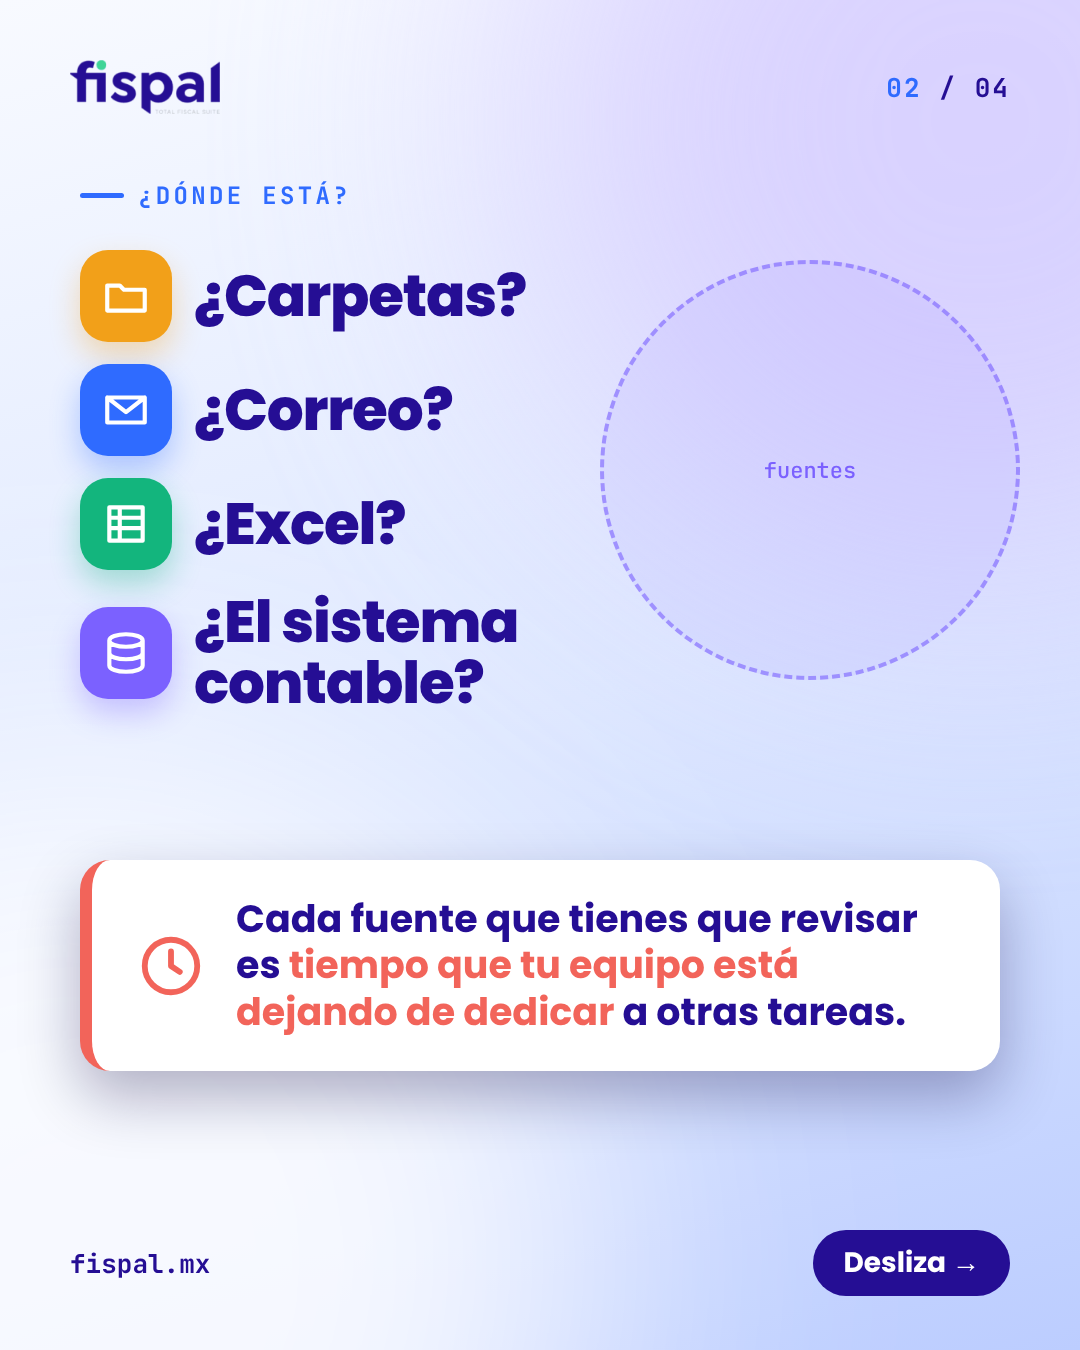
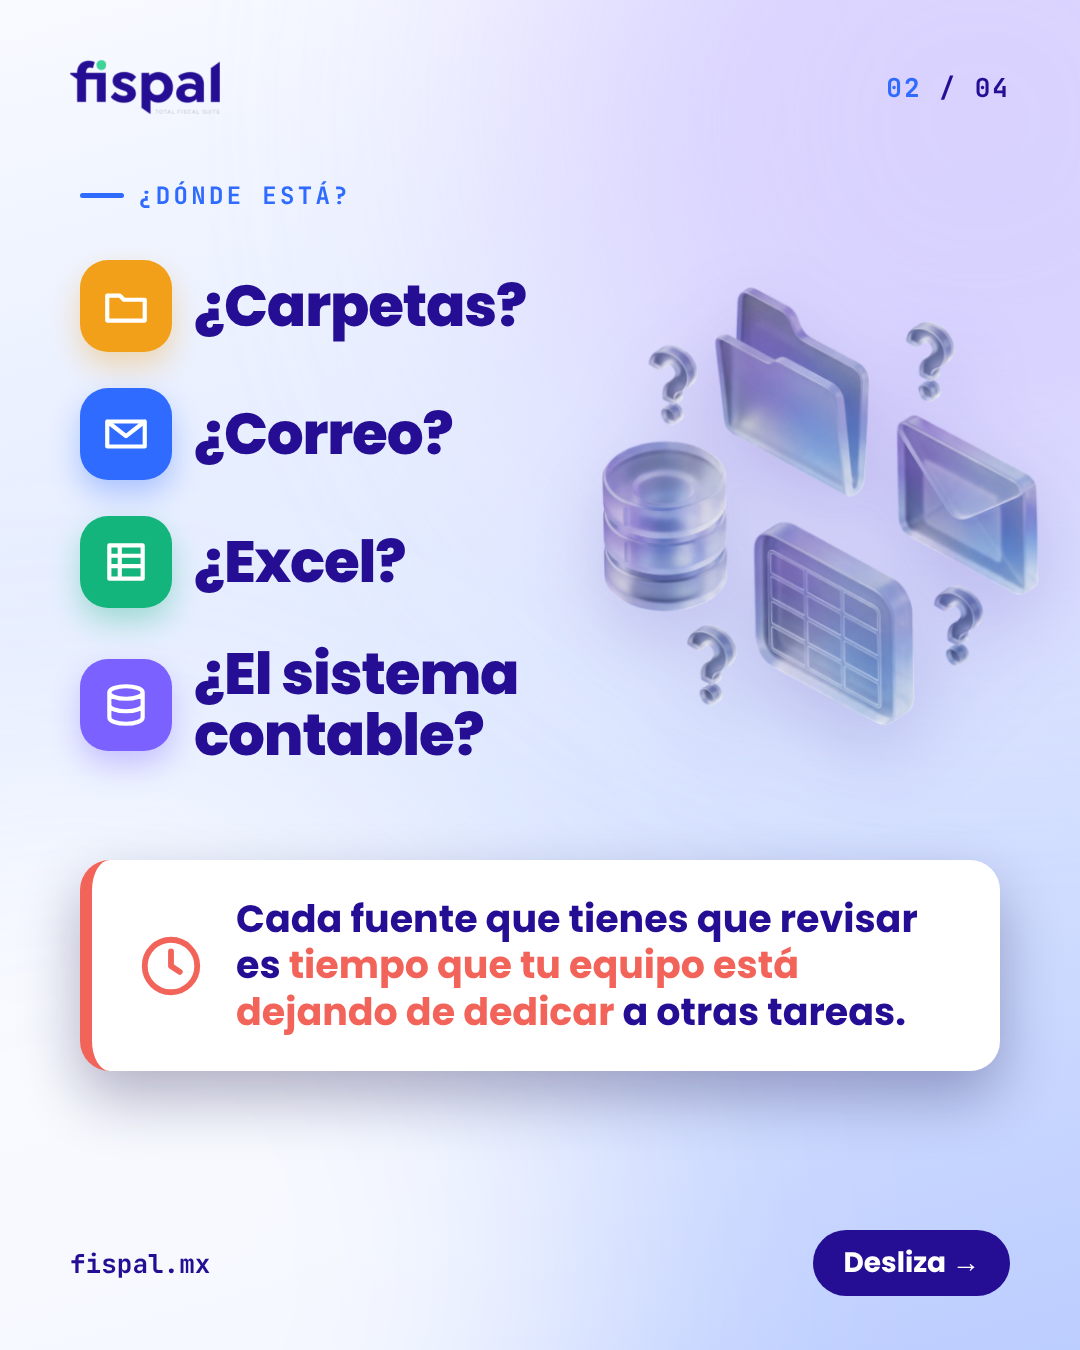
Fispal carrusel 5: ilustraciones de cristal
Claude-Session: https://claude.ai/code/session_01NghCctPQaKXziVeL1FGG6n

Changed region(s): [[0.0611, 0.1867, 0.4889, 0.5911], [0.55, 0.1867, 0.9778, 0.5289], [0.1833, 0.1867, 0.4889, 0.2489]]

diff --git a/editor/src/carruseles/C5Buscar.tsx b/editor/src/carruseles/C5Buscar.tsx
@@ -46,7 +46,7 @@ const S1: React.FC = () => (
       <Icon d={ICX.clock} size={30} color={CORAL} />
       <span style={{ fontFamily: MONO, color: CORAL }}>00:47:12</span>
     </Chip>
-    <Glass3D name="calendario-lupa" x={850} y={690} size={330} />
+    <Glass3D name="calendario-lupa" x={860} y={600} size={300} />
     <div style={{ position: "absolute", left: L, right: L, top: 800 }}>
       <Title t={t} size={74} parts={["Te piden un CFDI de ", { hl: "hace 8 meses." }]} />
       <div style={{ marginTop: 26, fontFamily: FONT, fontWeight: 700, fontSize: 46, color: t.sub }}>
@@ -67,8 +67,8 @@ const SOURCES = [
 const S2: React.FC = () => (
   <Frame t={t} i={1} n={N} ribbon={false}>
     <Eyebrow>¿DÓNDE ESTÁ?</Eyebrow>
-    <Glass3D name="fuentes" x={810} y={470} size={420} />
-    <div style={{ position: "absolute", left: L, top: 250, display: "flex", flexDirection: "column", gap: 22 }}>
+    <Glass3D name="fuentes" x={820} y={500} size={440} />
+    <div style={{ position: "absolute", left: L, top: 260, display: "flex", flexDirection: "column", gap: 36 }}>
       {SOURCES.map((s) => (
         <div key={s.w} style={{ display: "flex", alignItems: "center", gap: 22 }}>
           <div style={{ width: 92, height: 92, borderRadius: 28, background: s.c, display: "flex", alignItems: "center", justifyContent: "center", boxShadow: `0 14px 30px ${s.c}55`, flexShrink: 0 }}>
